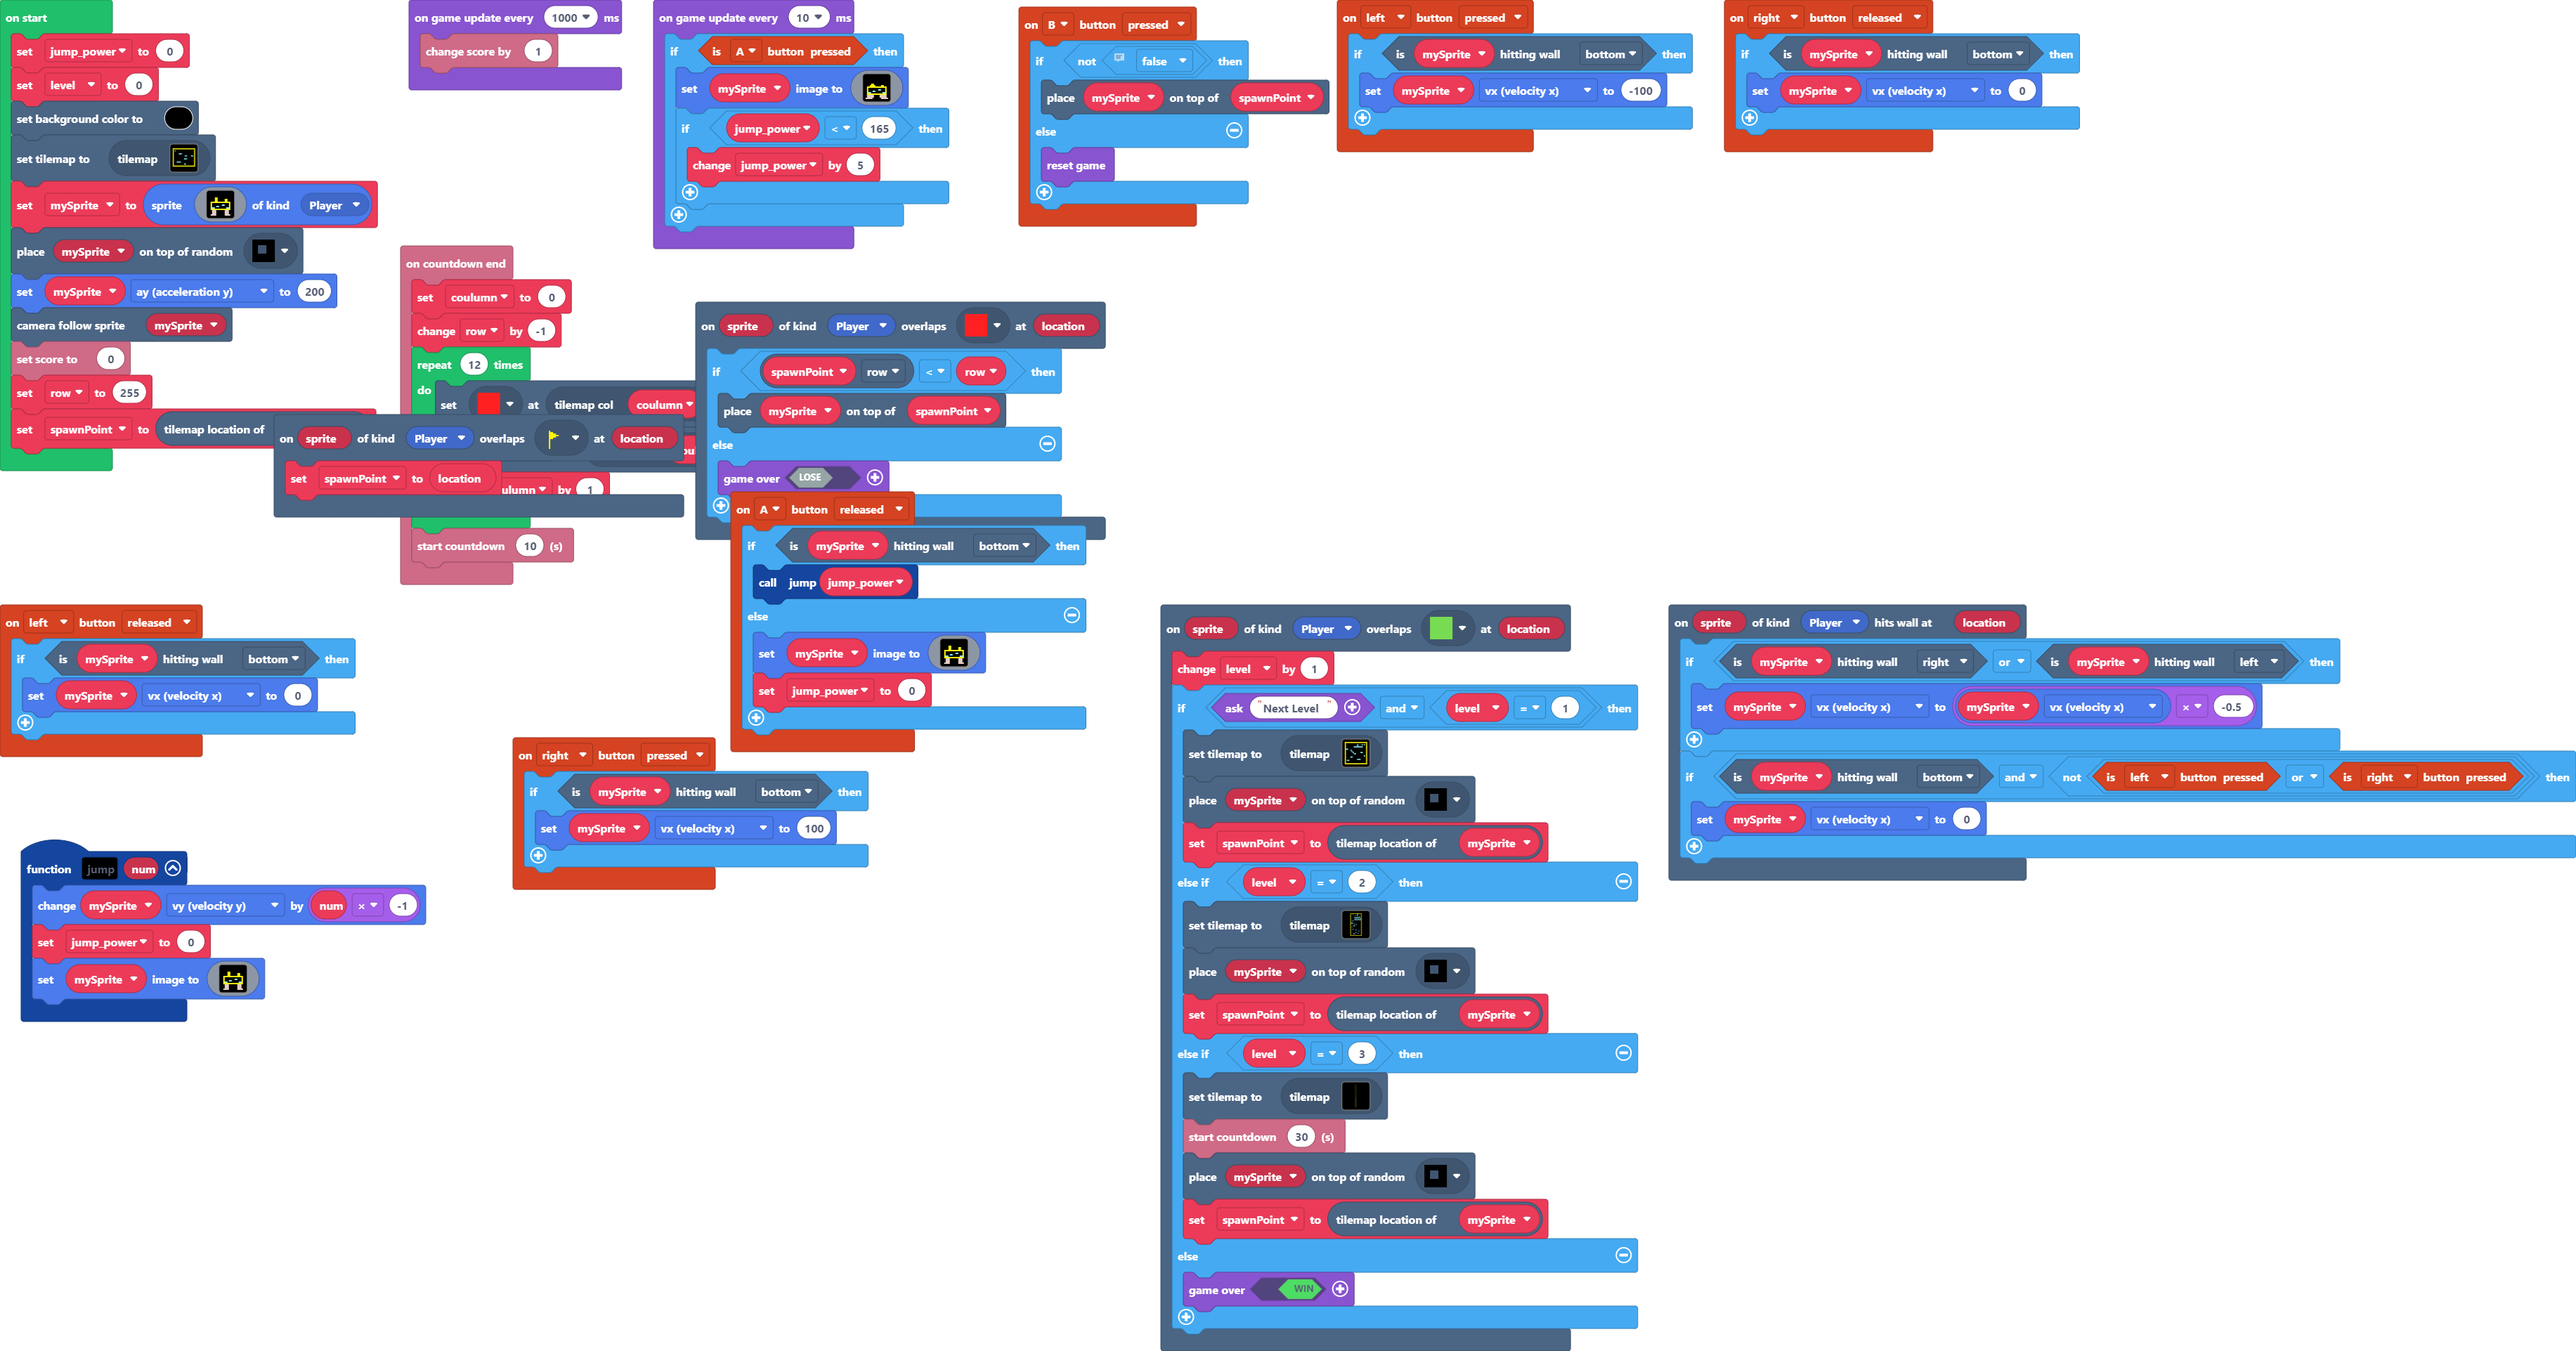
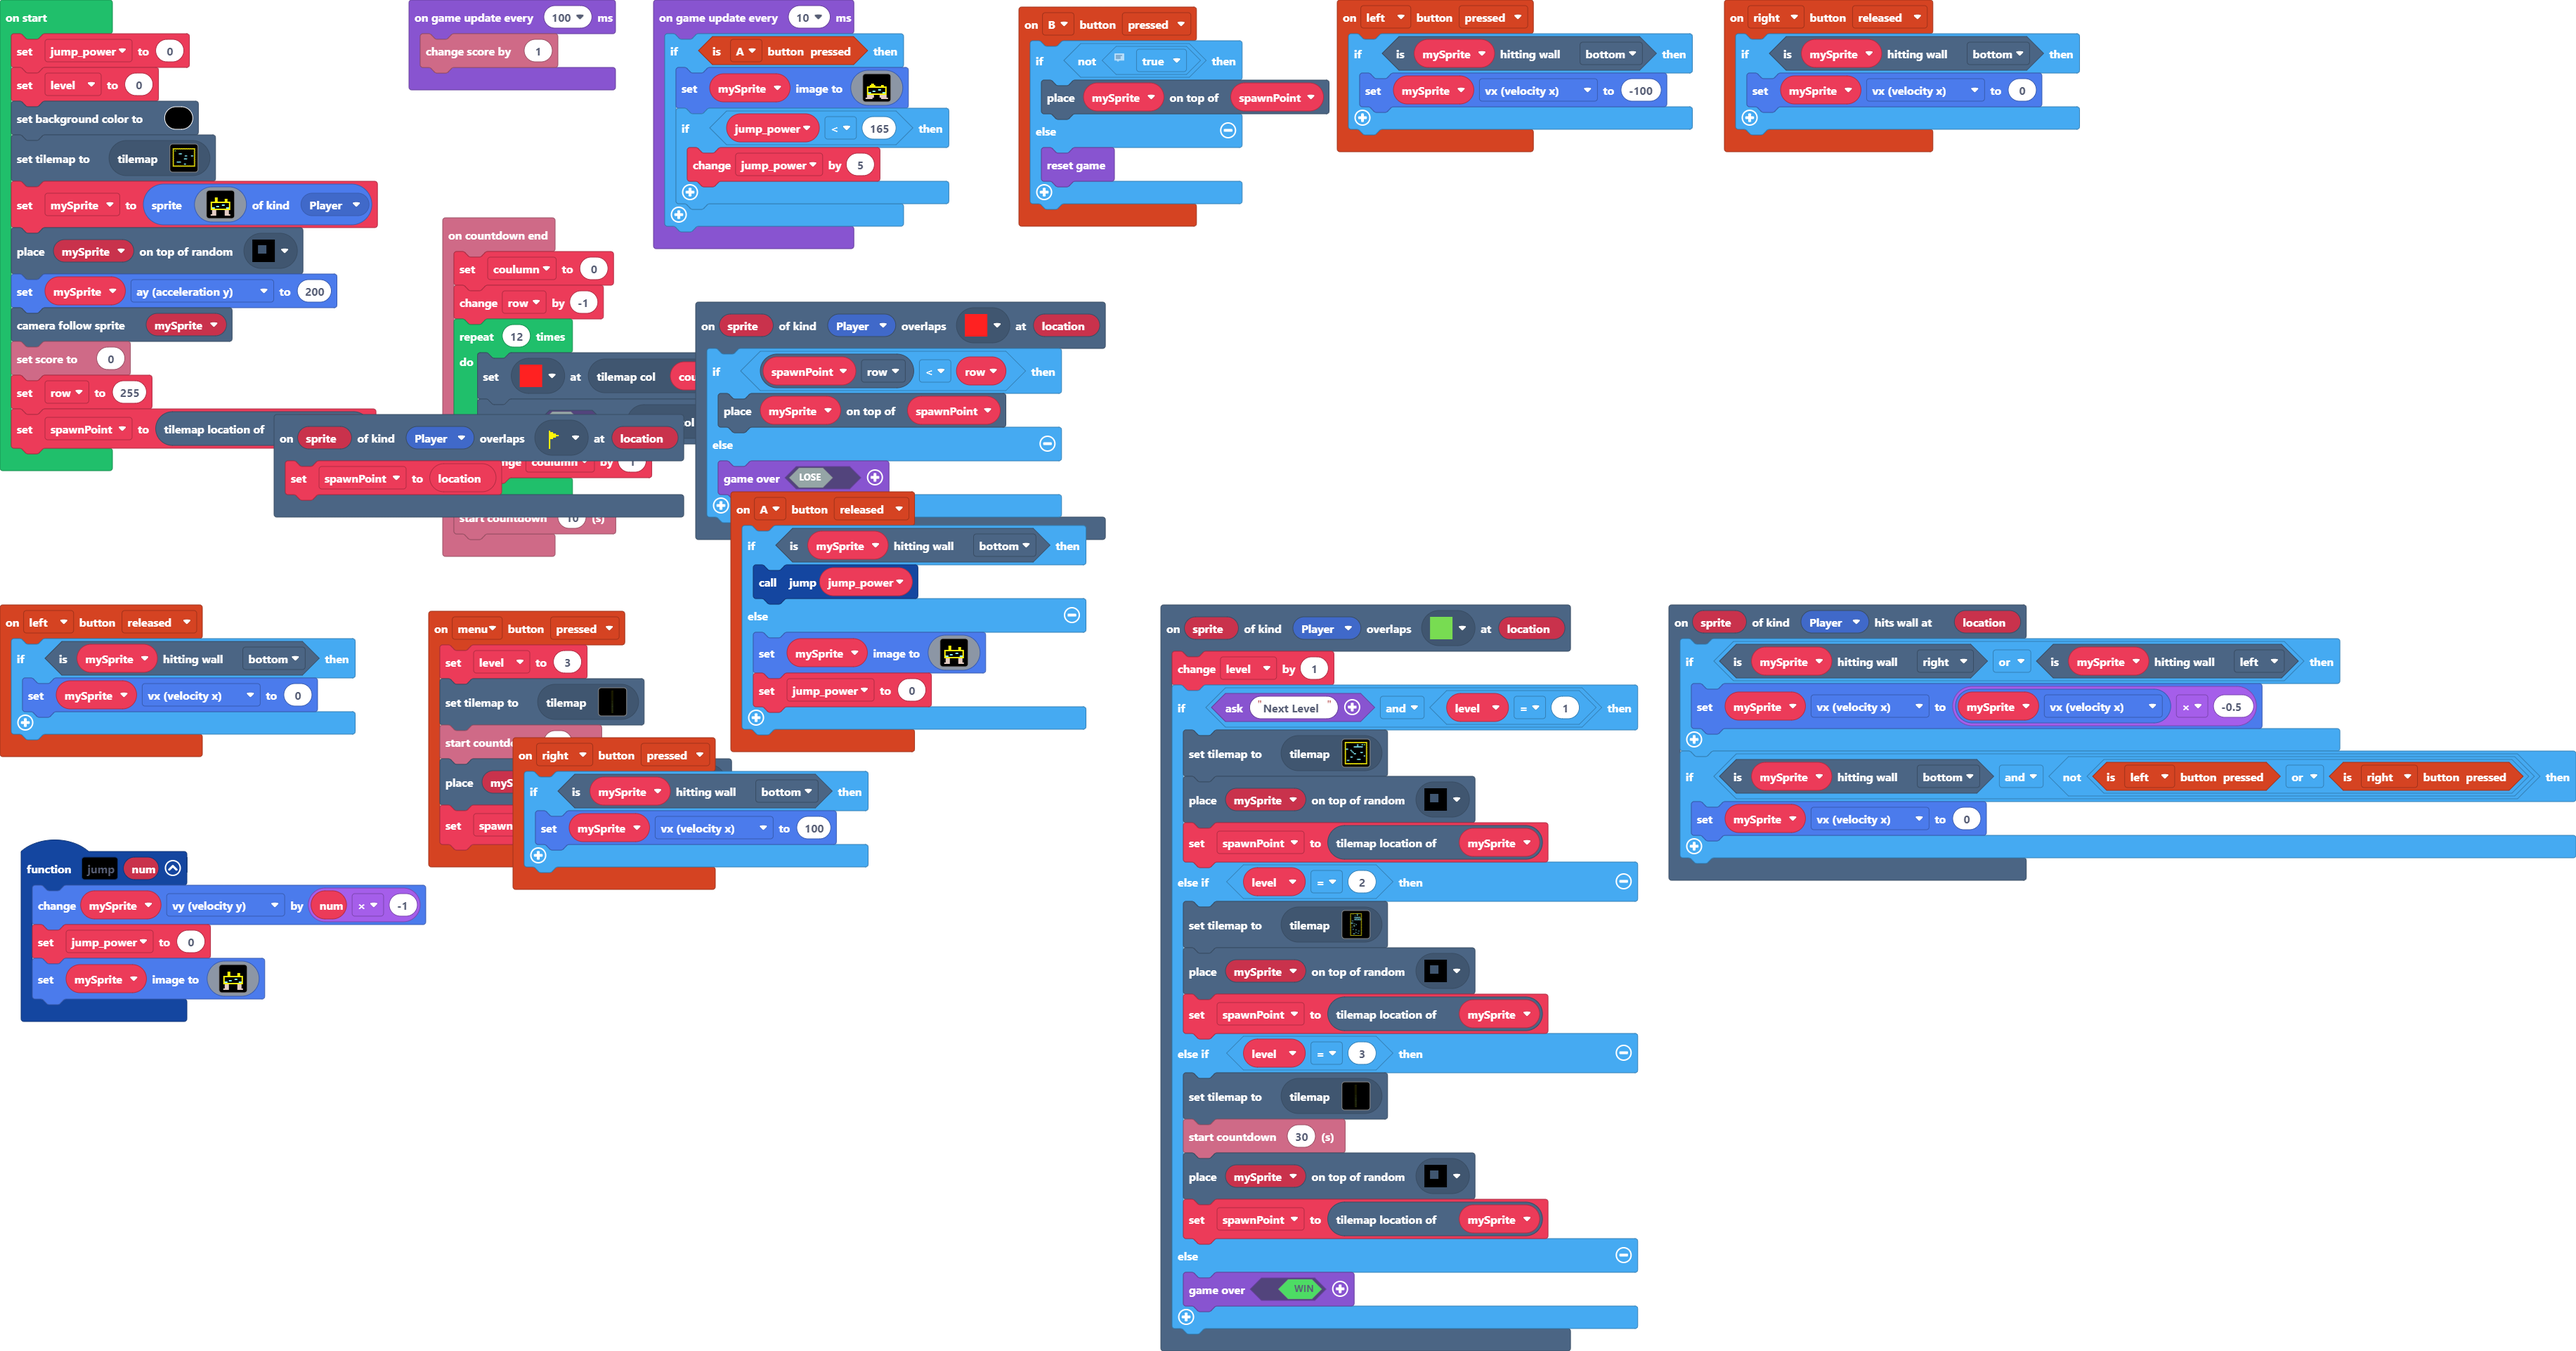
Update pxt.json, main.blocks, main.ts, tilemap.g.jres, tilemap.g.ts

Changed region(s): [[0.1555, 0.156, 0.2799, 0.6552], [0.4664, 0.0312, 0.4975, 0.0624], [0.2177, 0.0, 0.2488, 0.0312]]

diff --git a/tilemap.g.ts b/tilemap.g.ts
@@ -587,6 +587,25 @@ namespace myTiles {
 2..................2
 22222222222222222222
 `, [myTiles.transparency16,myTiles.tile1,myTiles.tile2,myTiles.tile3,myTiles.tile4,myTiles.tile5,myTiles.tile6,myTiles.tile7,myTiles.tile8,myTiles.tile9,myTiles.tile10,myTiles.tile11,myTiles.tile12], TileScale.Sixteen);
+            case "level16":
+            case "level16":return tiles.createTilemap(hex`1000100000000000000000000000000000000000000000000000000000000000000000000000000000000000000000000000000000000000000000000000000000000000000000000000000000000000000000000000000000000000000000000000000000000000000000000000000000000000000000000000000000000000000000000000000000000000000000000000000000000000000000000000000000000000000000000000000000000000000000000000000000000000000000000000000000000000000000000000000000000000000000000000000000000000000000000000000000000000000000000000000000000000000000000000000000000000`, img`
+. . . . . . . . . . . . . . . . 
+. . . . . . . . . . . . . . . . 
+. . . . . . . . . . . . . . . . 
+. . . . . . . . . . . . . . . . 
+. . . . . . . . . . . . . . . . 
+. . . . . . . . . . . . . . . . 
+. . . . . . . . . . . . . . . . 
+. . . . . . . . . . . . . . . . 
+. . . . . . . . . . . . . . . . 
+. . . . . . . . . . . . . . . . 
+. . . . . . . . . . . . . . . . 
+. . . . . . . . . . . . . . . . 
+. . . . . . . . . . . . . . . . 
+. . . . . . . . . . . . . . . . 
+. . . . . . . . . . . . . . . . 
+. . . . . . . . . . . . . . . . 
+`, [myTiles.transparency16], TileScale.Sixteen);
         }
         return null;
     })

diff --git a/main.ts b/main.ts
@@ -7,8 +7,8 @@ scene.onHitWall(SpriteKind.Player, function (sprite, location) {
     }
 })
 controller.B.onEvent(ControllerButtonEvent.Pressed, function () {
-    // True if testing levels false otherwise
-    if (!(false)) {
+    // True to speedRun, false to play normally
+    if (!(true)) {
         tiles.placeOnTile(mySprite, spawnPoint)
     } else {
         game.reset()
@@ -98,6 +98,13 @@ controller.A.onEvent(ControllerButtonEvent.Released, function () {
         jump_power = 0
     }
 })
+controller.menu.onEvent(ControllerButtonEvent.Pressed, function () {
+    level = 3
+    tiles.setCurrentTilemap(tilemap`level14`)
+    info.startCountdown(30)
+    tiles.placeOnRandomTile(mySprite, assets.tile`spawn block`)
+    spawnPoint = mySprite.tilemapLocation()
+})
 function jump (num: number) {
     mySprite.vy += num * -1
     jump_power = 0
@@ -154,9 +161,6 @@ scene.cameraFollowSprite(mySprite)
 info.setScore(0)
 row = 255
 spawnPoint = mySprite.tilemapLocation()
-game.onUpdateInterval(1000, function () {
-    info.changeScoreBy(1)
-})
 game.onUpdateInterval(10, function () {
     if (controller.A.isPressed()) {
         mySprite.setImage(img`
@@ -181,4 +185,7 @@ game.onUpdateInterval(10, function () {
             jump_power += 5
         }
     }
+})
+game.onUpdateInterval(100, function () {
+    info.changeScoreBy(1)
 })
